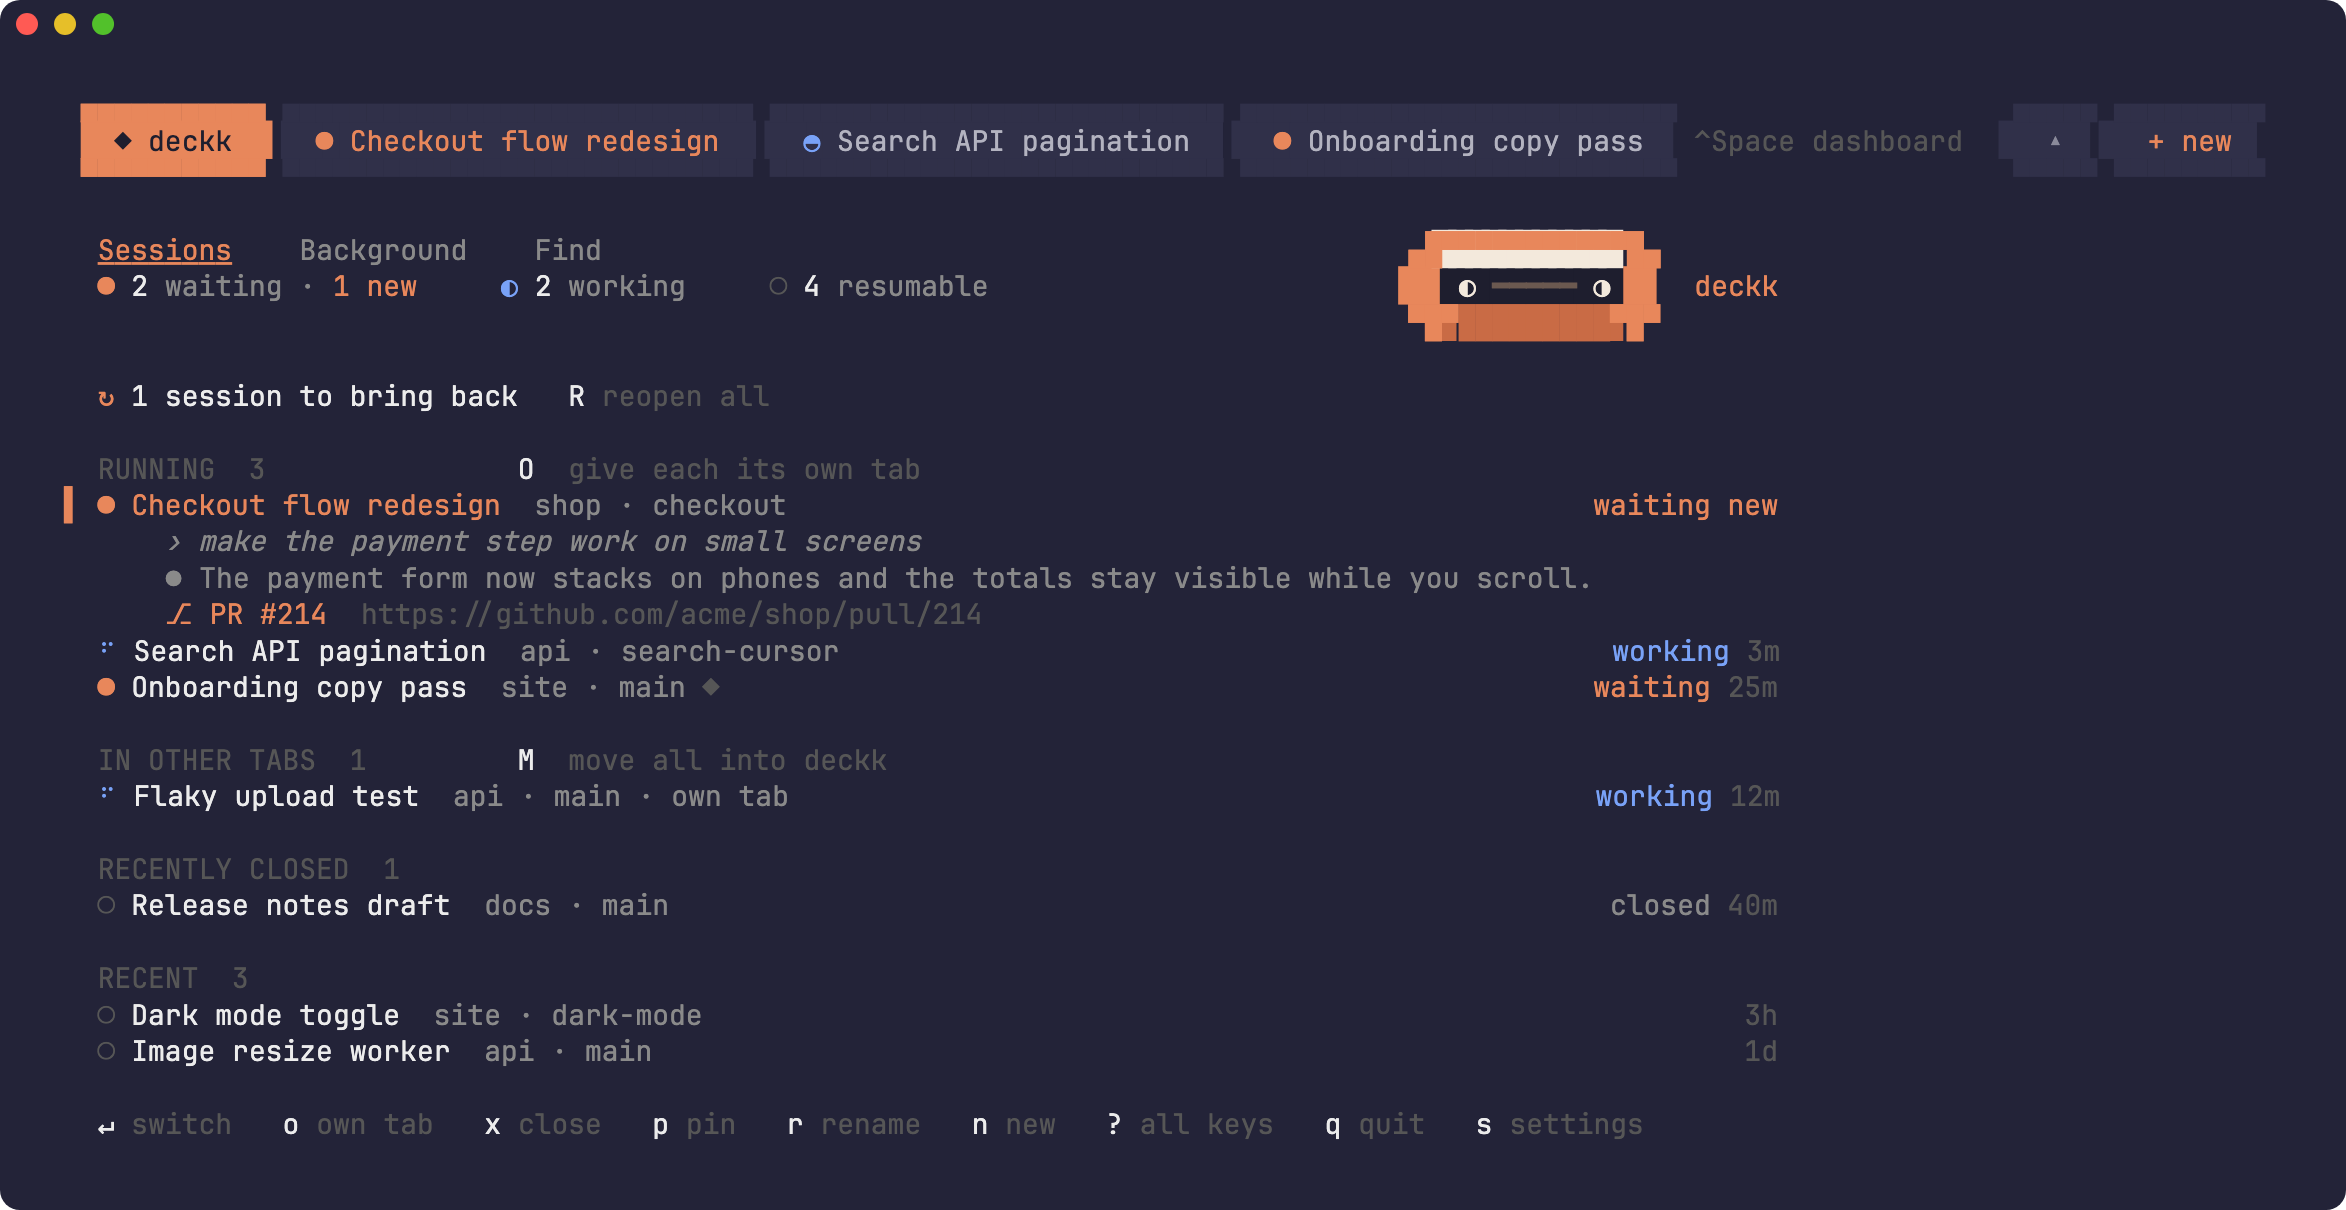
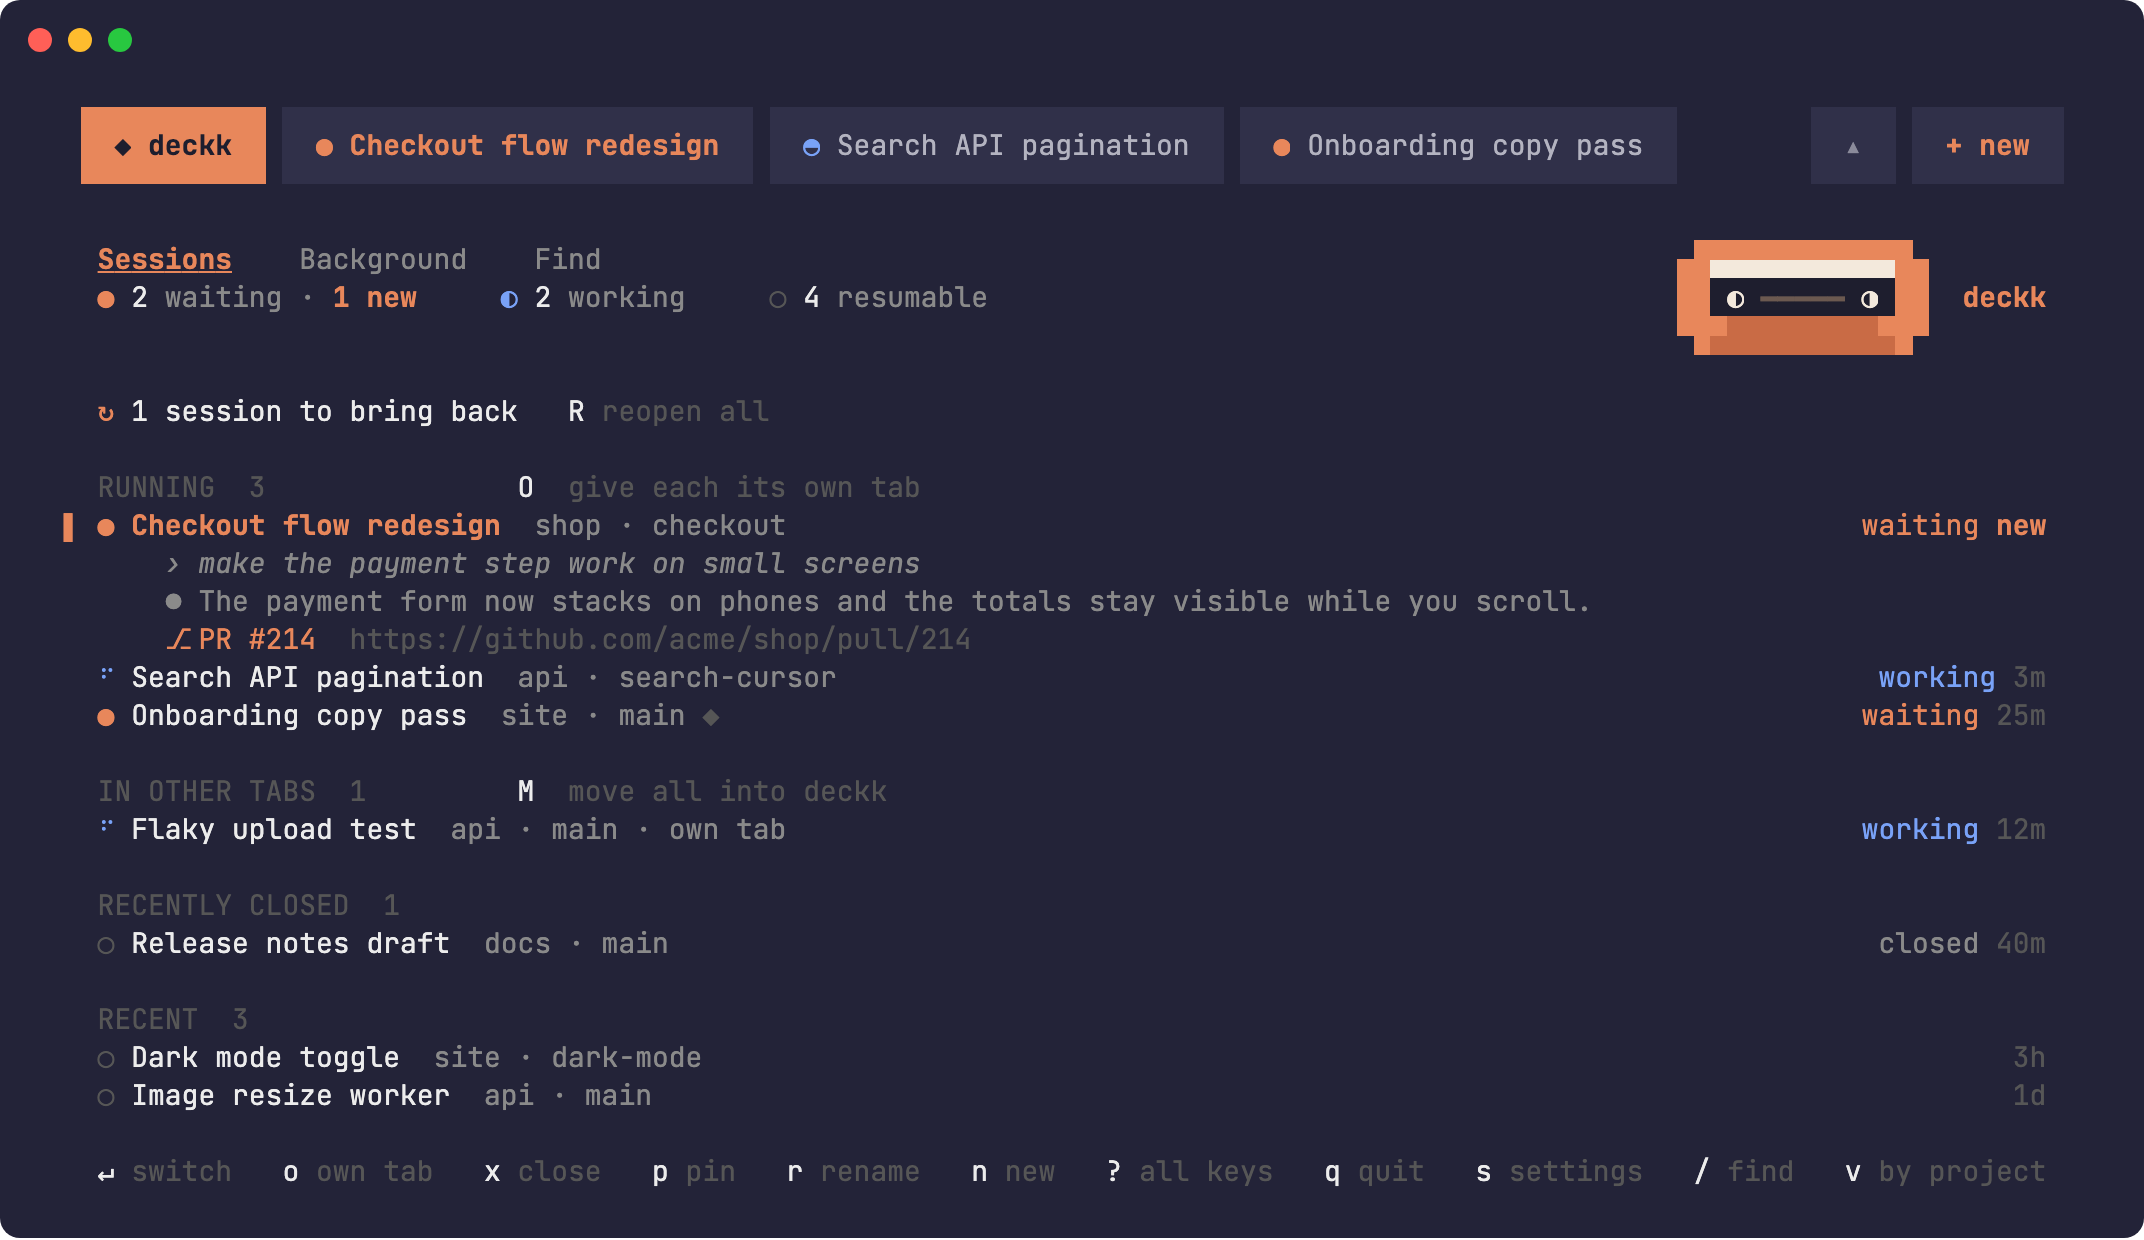
Render the README screenshot on a cell grid
freeze drew block characters with the font's own glyphs, which have a different advance and height than text cells, so the tab caps and the cassette came out notched and drifting. The demo strip was also wider than the screen. The test now writes HTML that places every cell at a fixed position and draws half blocks as boxes, and the demo screen is wide enough for its strip. freeze is no longer needed.

diff --git a/internal/ui/screenshot_html_test.go b/internal/ui/screenshot_html_test.go
@@ -1,0 +1,148 @@
+package ui
+
+import (
+	"fmt"
+	"html"
+	"strconv"
+	"strings"
+)
+
+const (
+	cellW = 8.4
+	cellH = 19.0
+)
+
+type pen struct {
+	fg, bg                         string
+	bold, faint, italic, underline bool
+}
+
+// screenshotHTML lays ANSI output on a fixed cell grid. Fonts draw block
+// glyphs at their own widths and heights, so those become boxes instead.
+func screenshotHTML(ansiText string, cols int) string {
+	var cells strings.Builder
+	lines := strings.Split(ansiText, "\n")
+	for row, line := range lines {
+		var p pen
+		col := 0
+		for i := 0; i < len(line); {
+			if strings.HasPrefix(line[i:], "\x1b[") {
+				end := strings.IndexByte(line[i:], 'm')
+				p = p.apply(line[i+2 : i+end])
+				i += end + 1
+				continue
+			}
+			r, size := decodeRune(line[i:])
+			i += size
+			cells.WriteString(p.cell(r, col, row))
+			col++
+		}
+	}
+	width, height := float64(cols)*cellW, float64(len(lines))*cellH
+	return fmt.Sprintf(`<!doctype html><html><head><meta charset="utf-8">
+<link href="https://fonts.googleapis.com/css2?family=JetBrains+Mono:ital,wght@0,400;0,700;1,400&display=block" rel="stylesheet">
+<style>
+body { margin: 0; background: transparent; }
+.window { display: inline-block; background: #232338; border-radius: 10px; padding: 44px 32px 24px; position: relative; }
+.dots { position: absolute; top: 14px; left: 14px; display: flex; gap: 8px; }
+.dots i { width: 12px; height: 12px; border-radius: 50%%; display: block; }
+.grid { position: relative; width: %.1fpx; height: %.1fpx; font: 14px/%.0fpx "JetBrains Mono", Menlo, monospace; color: #C0C0D0; }
+.grid span { position: absolute; white-space: pre; height: %.0fpx; }
+</style></head><body><div class="window"><div class="dots"><i style="background:#FF5F57"></i><i style="background:#FEBC2E"></i><i style="background:#28C840"></i></div>
+<div class="grid">%s</div></div></body></html>`, width, height, cellH, cellH, cells.String())
+}
+
+func decodeRune(s string) (rune, int) {
+	for i, r := range s {
+		if i == 0 {
+			return r, len(string(r))
+		}
+	}
+	return 0, 1
+}
+
+func (p pen) apply(params string) pen {
+	codes := strings.Split(params, ";")
+	for i := 0; i < len(codes); i++ {
+		switch codes[i] {
+		case "", "0":
+			p = pen{}
+		case "1":
+			p.bold = true
+		case "2":
+			p.faint = true
+		case "3":
+			p.italic = true
+		case "4":
+			p.underline = true
+		case "22":
+			p.bold, p.faint = false, false
+		case "23":
+			p.italic = false
+		case "24":
+			p.underline = false
+		case "39":
+			p.fg = ""
+		case "49":
+			p.bg = ""
+		case "38", "48":
+			if i+4 < len(codes) && codes[i+1] == "2" {
+				color := rgb(codes[i+2 : i+5])
+				if codes[i] == "38" {
+					p.fg = color
+				} else {
+					p.bg = color
+				}
+				i += 4
+			}
+		}
+	}
+	return p
+}
+
+func rgb(parts []string) string {
+	var c [3]int
+	for i, s := range parts {
+		c[i], _ = strconv.Atoi(s)
+	}
+	return fmt.Sprintf("#%02X%02X%02X", c[0], c[1], c[2])
+}
+
+func (p pen) cell(r rune, col, row int) string {
+	x, y := float64(col)*cellW, float64(row)*cellH
+	box := func(top, h float64, color string) string {
+		return fmt.Sprintf(`<span style="left:%.1fpx;top:%.1fpx;width:%.1fpx;height:%.1fpx;background:%s"></span>`, x, y+top, cellW+0.3, h+0.3, color)
+	}
+	fg := p.fg
+	if fg == "" {
+		fg = "#C0C0D0"
+	}
+	var out string
+	if p.bg != "" {
+		out = box(0, cellH, p.bg)
+	}
+	switch r {
+	case ' ':
+		return out
+	case '█':
+		return out + box(0, cellH, fg)
+	case '▀':
+		return out + box(0, cellH/2, fg)
+	case '▄':
+		return out + box(cellH/2, cellH/2, fg)
+	}
+	style := "left:" + fmt.Sprintf("%.1fpx", x) + ";top:" + fmt.Sprintf("%.1fpx", y) + ";color:" + fg
+	if p.bold {
+		style += ";font-weight:700"
+	}
+	if p.faint {
+		style += ";opacity:.6"
+	}
+	if p.italic {
+		style += ";font-style:italic"
+	}
+	if p.underline {
+		style += ";text-decoration:underline"
+	}
+	return out + `<span style="` + style + `">` + html.EscapeString(string(r)) + `</span>`
+}

diff --git a/internal/ui/screenshot_test.go b/internal/ui/screenshot_test.go
@@ -55,7 +55,7 @@ func TestScreenshot(t *testing.T) {
 	_ = st.SetClosed([]string{"a5"}, nil, at(40*time.Minute), 24*time.Hour)
 	cfg, _ := config.Load(filepath.Join(dir, "config.toml"))
 	m := New("", time.Time{}, st, cfg, &fakeHost{windows: windows})
-	m.width, m.height = 104, 26
+	m.width, m.height = 120, 26
 	m.loaded, m.startedAt = true, time.Time{}
 	m.sessions, m.tabs = sessions, windows
 	m.windows, m.popped = byTTY(windows)
@@ -63,7 +63,7 @@ func TestScreenshot(t *testing.T) {
 	m.rearrange()
 
 	screen := strip(m.width) + "\n\n" + m.View()
-	if err := os.WriteFile(out, []byte(screen), 0o644); err != nil {
+	if err := os.WriteFile(out, []byte(screenshotHTML(screen, m.width)), 0o644); err != nil {
 		t.Fatal(err)
 	}
 }
@@ -82,7 +82,6 @@ func strip(width int) string {
 		tab.Render("  ") + glyph("#7AA2F7", "◓") + tab.Render(" Search API pagination  "),
 		tab.Render("  ") + glyph("#E8875B", "●") + tab.Render(" Onboarding copy pass  "),
 	}
-	hint := ghost.Render("⌃Space dashboard   ")
 	info := lipgloss.NewStyle().Background(lipgloss.Color("#30304A")).Foreground(lipgloss.Color("#8A8A9A")).Render("  ▴  ") + " "
 	button := lipgloss.NewStyle().Background(lipgloss.Color("#30304A")).Foreground(lipgloss.Color("#E8875B")).Bold(true).Render("  + new  ")
 	row := func(half string) (string, string) {
@@ -93,14 +92,14 @@ func strip(width int) string {
 		capOf := func(n int) string {
 			return lipgloss.NewStyle().Foreground(lipgloss.Color("#30304A")).Render(strings.Repeat(half, n))
 		}
-		return " " + strings.Join(caps, " "), strings.Repeat(" ", lipgloss.Width(hint)) + capOf(5) + " " + capOf(9) + " "
+		return " " + strings.Join(caps, " "), capOf(5) + " " + capOf(9) + " "
 	}
 	line := func(left, right string) string {
 		return left + strings.Repeat(" ", max(width-lipgloss.Width(left)-lipgloss.Width(right), 1)) + right
 	}
 	return strings.Join([]string{
 		line(row("▄")),
-		line(" "+strings.Join(tabs, " "), hint+info+button+" "),
+		line(" "+strings.Join(tabs, " "), info+button+" "),
 		line(row("▀")),
 	}, "\n")
 }
